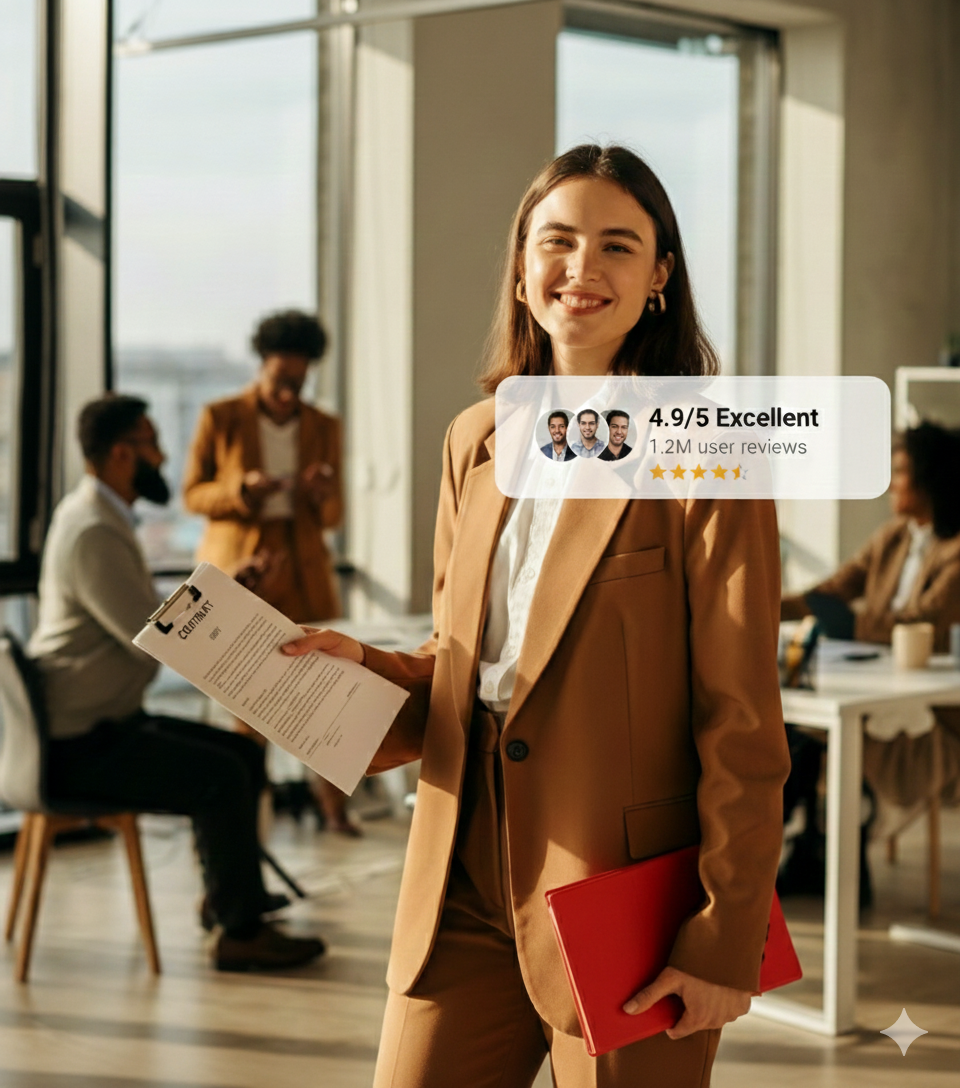
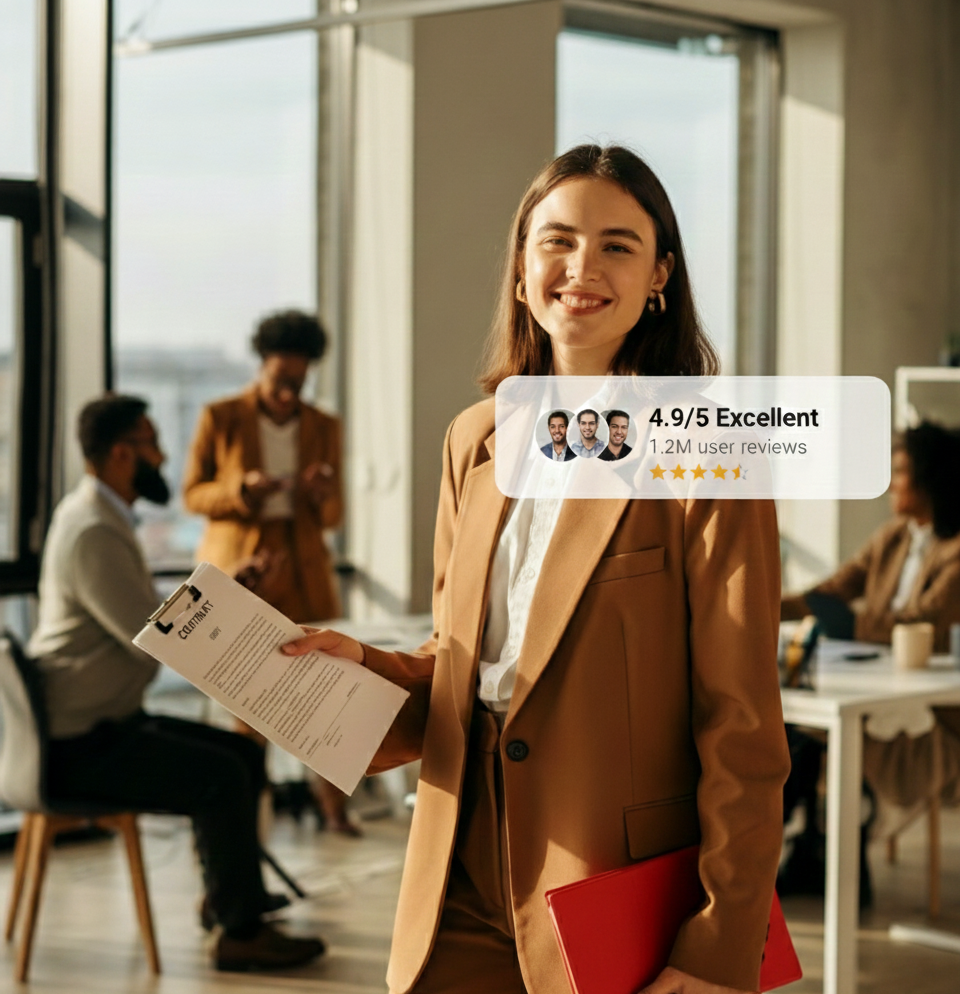
updated

diff --git a/cybexel/cybexelapp/templates/index.html b/cybexel/cybexelapp/templates/index.html
@@ -995,7 +995,7 @@ We also provide complete solutions for digital classroom setups, network configu
    <div class="w-full overflow-x-auto scrollbar-hide md:overflow-visible">
       <div class="flex flex-row gap-4 md:flex-nowrap 2xl:pl-32  pl-[2.2rem] max-md:pl-0">
 
-        <div class="max-w-sm p-[1.3rem] md:p-6 rounded-md bg-gradient-to-br from-[#e0f2fe] to-[#f0f9ff] h-[160px] md:h-[200px] flex flex-col justify-center">
+        <div class="max-w-sm p-[1.3rem] md:p-4 rounded-md bg-gradient-to-br from-[#e0f2fe] to-[#f0f9ff] h-[160px] md:h-[200px] flex flex-col justify-center">
   <div class="w-8 h-8 md:w-10 md:h-10 rounded-full bg-[#e0f2fe] flex items-center justify-center mb-3 md:mb-4">
     <svg xmlns="http://www.w3.org/2000/svg" class="w-4 h-4 md:w-20 md:h-20" viewBox="0 0 15 15">
       <path fill="#7bc7fa" d="M13.792 3.262s-1.676 1.675-2.116 2.12a.3.3 0 0 1-.282.097c-.149-.023-.298-.038-.447-.056l-1.229-.146c-.069-.592-.14-1.172-.2-1.753c-.006-.055.033-.13.074-.172c.508-.513 1.927-1.928 2.134-2.136c-.45-.213-1.224-.297-1.8-.203a3.545 3.545 0 0 0-2.82 4.625c.037.115.013.182-.069.264q-2.771 2.766-5.539 5.535a3 3 0 0 0-.178.192a1.457 1.457 0 0 0 .298 2.102c.604.42 1.365.344 1.905-.195q2.78-2.778 5.556-5.56c.092-.092.165-.123.299-.078a3.4 3.4 0 0 0 1.888.089a3.544 3.544 0 0 0 2.655-4.304c-.031-.13-.078-.259-.13-.421"/>
@@ -1006,7 +1006,7 @@ We also provide complete solutions for digital classroom setups, network configu
   </div>
 
 
-       <div class="max-w-sm p-[1.3rem] md:p-6 rounded-md bg-gradient-to-br from-[#fce7f3] to-[#fdf2f8] h-[160px] md:h-[200px] flex flex-col justify-center">
+       <div class="max-w-sm p-[1.3rem] md:p-4 rounded-md bg-gradient-to-br from-[#fce7f3] to-[#fdf2f8] h-[160px] md:h-[200px] flex flex-col justify-center">
   <div class="w-8 h-8 md:w-10 md:h-10 rounded-full bg-[#fce7f3] flex items-center justify-center mb-3 md:mb-4">
     <svg xmlns="http://www.w3.org/2000/svg" class="w-4 h-4 md:w-20 md:h-20" viewBox="0 0 24 24">
       <path fill="#fca6d7" d="M23.87 11.525c.071.013.13.084.13.157v3.033a.166.166 0 0 1-.13.157l-2.875.535a.24.24 0 0 0-.17.151l-.898 2.242a.25.25 0 0 0 .017.229l1.633 2.379a.17.17 0 0 1-.02.204l-2.144 2.144a.17.17 0 0 1-.203.019l-2.338-1.604a.23.23 0 0 0-.224-.008l-1.03.55a.12.12 0 0 1-.17-.062l-2.125-5.135a.16.16 0 0 1 .062-.192l.258-.158c.048-.03.113-.08.163-.125a3.354 3.354 0 1 0-3.612 0c.05.046.115.096.163.125l.258.158a.16.16 0 0 1 .062.192L8.552 21.65a.12.12 0 0 1-.17.063l-1.03-.55a.23.23 0 0 0-.224.007L4.79 22.775a.17.17 0 0 1-.204-.019l-2.145-2.144a.17.17 0 0 1-.019-.204l1.633-2.38a.25.25 0 0 0 .017-.228l-.897-2.242a.24.24 0 0 0-.17-.15L.13 14.871a.166.166 0 0 1-.13-.157v-3.032c0-.073.059-.144.13-.157l2.947-.548a.25.25 0 0 0 .175-.15l.903-2.108a.25.25 0 0 0-.014-.227L2.424 5.989a.17.17 0 0 1 .019-.203L4.587 3.64a.166.166 0 0 1 .204-.019L7.337 5.37c.06.041.163.048.229.016l2.043-.836c.07-.023.137-.1.15-.173l.567-3.047a.17.17 0 0 1 .157-.131h3.034c.073 0 .143.059.157.13l.567 3.048a.25.25 0 0 0 .15.173l2.043.836a.25.25 0 0 0 .23-.016l2.546-1.748a.166.166 0 0 1 .203.02l2.144 2.144c.052.051.06.143.02.203l-1.718 2.503a.25.25 0 0 0-.014.227l.903 2.108a.26.26 0 0 0 .175.15z"/>

diff --git a/cybexel/cybexelapp/templates/politics.html b/cybexel/cybexelapp/templates/politics.html
@@ -155,35 +155,46 @@
 .grid-8-hover {
   position: relative;
   overflow: hidden;
-  
 }
 
 .grid-8-hover::after {
   content: "";
   position: absolute;
   inset: 0;
-  opacity: 0;
-  transition: opacity .3s ease;
   pointer-events: none;
+  background:
+    /* top row — right aligned */
+    linear-gradient(rgba(21,26,55,0.08), rgba(21,26,55,0.2)) right 0 top 0 / 80px 80px no-repeat,
+    linear-gradient(rgba(21,26,55,0.06), rgba(21,26,55,0.08)) right 80px top 0 / 80px 80px no-repeat,
+    linear-gradient(rgba(21,26,55,0.05), rgba(21,26,55,0.05)) right 160px top 0 / 80px 80px no-repeat,
+    linear-gradient(rgba(21,26,55,0.04), rgba(21,26,55,0.01)) right 240px top 0 / 80px 80px no-repeat,
 
- background:
-  /* top row — right aligned */
-  linear-gradient(rgba(21,26,55,0.08), rgba(21,26,55,0.2)) right 0 top 0 / 80px 80px no-repeat,
-  linear-gradient(rgba(21,26,55,0.06), rgba(21,26,55,0.08)) right 80px top 0 / 80px 80px no-repeat,
-  linear-gradient(rgba(21,26,55,0.05), rgba(21,26,55,0.05)) right 160px top 0 / 80px 80px no-repeat,
-  linear-gradient(rgba(21,26,55,0.04), rgba(21,26,55,0.01)) right 240px top 0 / 80px 80px no-repeat,
-
-  /* right column */
-  linear-gradient(rgba(21,26,55,0.06), rgba(21,26,55,0.06)) right 0 top 80px / 80px 80px no-repeat,
-  linear-gradient(rgba(21,26,55,0.05), rgba(21,26,55,0.05)) right 0 top 160px / 80px 80px no-repeat,
-  linear-gradient(rgba(21,26,55,0.04), rgba(21,26,55,0.04)) right 0 top 240px / 80px 80px no-repeat,
-  linear-gradient(rgba(21,26,55,0.03), rgba(21,26,55,0.03)) right 0 top 320px / 80px 80px no-repeat;
-
+    /* right column */
+    linear-gradient(rgba(21,26,55,0.06), rgba(21,26,55,0.06)) right 0 top 80px / 80px 80px no-repeat,
+    linear-gradient(rgba(21,26,55,0.05), rgba(21,26,55,0.05)) right 0 top 160px / 80px 80px no-repeat,
+    linear-gradient(rgba(21,26,55,0.04), rgba(21,26,55,0.04)) right 0 top 240px / 80px 80px no-repeat,
+    linear-gradient(rgba(21,26,55,0.03), rgba(21,26,55,0.03)) right 0 top 320px / 80px 80px no-repeat;
 }
 
-.grid-8-hover:hover::after {
-  opacity: 1;
+/* ✅ Mobile — Always visible */
+@media (max-width: 768px) {
+  .grid-8-hover::after {
+    opacity: 1;
+  }
 }
+
+/* ✅ Desktop — Only on hover */
+@media (min-width: 769px) {
+  .grid-8-hover::after {
+    opacity: 0;
+    transition: opacity .3s ease;
+  }
+
+  .grid-8-hover:hover::after {
+    opacity: 1;
+  }
+}
+
 </style>
 
 
@@ -390,7 +401,7 @@
           Content & Creative Design
         </div>
       </div>
-      <p class="max-md:text-[10px] absolute md:left-[620px] top-36 md:top-10 max-w-sm">
+      <p class="max-md:text-[10px] absolute md:left-[620px] top-[9.5rem] md:top-10 max-w-sm">
         Create targeted social media content, graphics and multimedia campaigns.
       </p>
     </div>

diff --git a/cybexel/cybexel/settings.py b/cybexel/cybexel/settings.py
@@ -117,10 +117,10 @@ DATABASES = {
 }
 
 
-# CSRF_TRUSTED_ORIGINS = [
-#     "https://cybexel.com",
-#     "https://www.cybexel.com",
-# ]
+CSRF_TRUSTED_ORIGINS = [
+    "https://cybexel.com",
+    "https://www.cybexel.com",
+]
   
 # DATABASES = {
 #     'default': {
